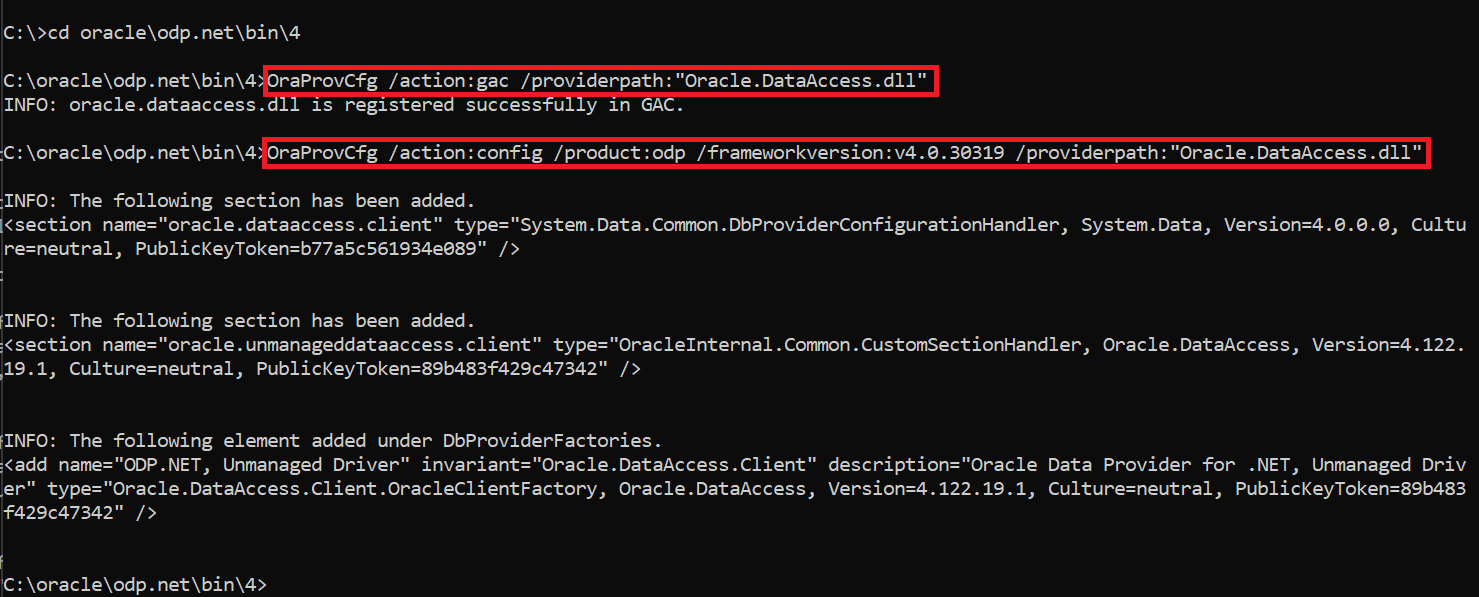
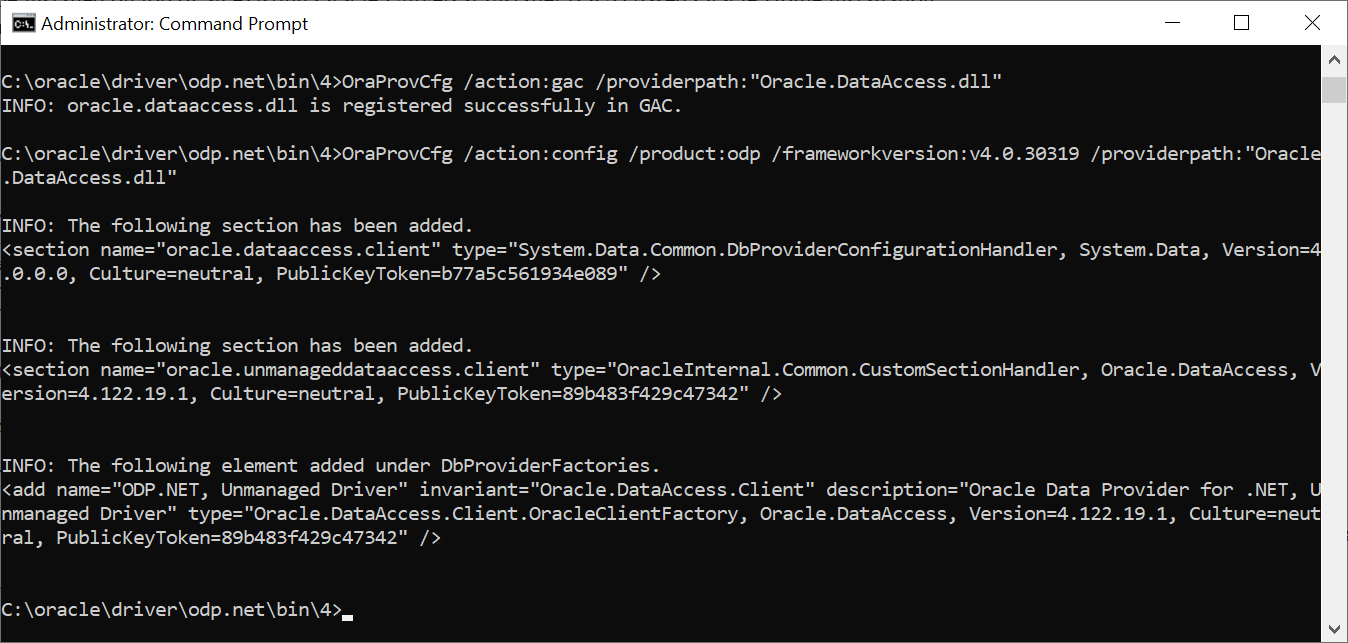
Added Oracle Autonomous Database info

Changed region(s): [[0.0, 0.0, 1.0, 1.0]]

diff --git a/powerquery-docs/Connectors/OracleDatabase.md b/powerquery-docs/Connectors/OracleDatabase.md
@@ -104,7 +104,7 @@ The following table lists all of the advanced options you can set in Power Query
 | --------------- | ----------- |
 | Command timeout in minutes | If your connection lasts longer than 10 minutes (the default timeout), you can enter another value in minutes to keep the connection open longer. This option is only available in Power Query Desktop. |
 | SQL statement | For information, go to [Import data from a database using native database query](../native-database-query.md). |
-| Include relationship columns | If checked, includes columns that might have relationships to other tables. If this box is cleared, you won’t see those columns. |
+| Include relationship columns | If checked, includes columns that might have relationships to other tables. If this box is cleared, these columns won't appear. |
 | Navigate using full hierarchy | If checked, the navigator displays the complete hierarchy of tables in the database you're connecting to. If cleared, the navigator displays only the tables whose columns and rows contain data. |
 | | |
 
@@ -143,30 +143,43 @@ To download your client credentials:
 
 1. Go to the [Oracle Data Access Components Runtime Downloads](https://www.oracle.com/database/technologies/dotnet-odacdeploy-downloads.html) page.
 
-2. Under **ODAC XCopy**, select either **64-bit Unmanaged ODP.NET 19.10** or **32-bit Unmanaged ODP.NET 19.10**, depending on whether you'll be using the 64-bit or 32-bit version of Power BI Desktop. The examples in this article use the 64-bit version.
+2. If you're using a 64-bit version of Power BI Desktop, under **64-bit ODAC OUI**, select **64-bit ODAC 19.3.1**. If you're using a 32-bit version of Power BI Desktop, go to the download page for the 32-bit version from the link on the Oracle page. We recommend that you use the 64-bit version. The examples in this article use the 64-bit version.
 
-3. Review and accept the Oracle license agreement, then select **Download ODP.NETUnmanaged19.10Xcopyx64.zip**.
+3. Review and accept the Oracle license agreement, then select **Download ODAC1931_x64.zip**.
 
 4. You'll be asked to sign in to your Oracle account. This account might be different from your Oracle Cloud account, so be sure to enter the correct username and password.
 
-   The Oracle ODAC Xcopy zip file is then downloaded to your Windows default download location.
+   The Oracle ODAC OUI zip file is then downloaded to your Windows default download location.
 
-5. From the default download location, extract the files from the zip file and place them in a convenient location.
+5. From the default download location, extract the files from the zip file and place them in a convenient folder of your choice.
 
 6. Open a Windows command prompt (cmd.exe) in administrator mode.
 
-7. In the command prompt, navigate to the folder where you extracted the ODAC Xcopy files.
+7. In the command prompt, navigate to the folder where you extracted the ODAC OUI files.
 
-8. Enter the following line in the command prompt (if you are using .NET Framework 4):
+8. Open setup.exe.
 
-   `install.bat odp.net4 c:\oracle odac false`
+9. In **Specify Oracle Home User**, select **Use Windows Built-in Account**. Then select **Next**.
 
-   >[!Note]
-   >Other options exist for .NET Framework 2 or MTS, whether you want to install Oracle Instant Client, and the installation location. For example, if you are connecting to multiple autonomous databases, you might want to set up a more complex folder structure to accommodate each of these databases. Go to the readme.htm file in the folder containing the extracted ODAC Xcopy files for more information about these options.
+   ![Image with Use Windows Built-in Account selected in the Specify Oracle Home User dialog box.](media/oracle-database/driver-install-step-1.png)
+
+10. In **Specify Installation Location**, select the location for the Oracle base folder. Select **Browse** to browse to the folder you want to use, then select **Select**. Then select **Next**.
+
+    ![Image with the browser open and a new location listed for the Oracle base.](media/oracle-database/driver-install-step-2.png)
+
+11. In **Available Product Components**, only select **Oracle Data Provider for .NET**. Then select **Next**.
+
+    ![Image with Oracle Data Provider for .Net selected.](media/oracle-database/driver-install-step-3.png)
+
+12. The installer then performs some prerequisite checks to ensure your system meets the minimum installation and configuration requirements. Once this check is finished, select **Next**.
+
+13. The installer then presents a summary of the actions it's going to take. To continue, select **Install**.
+
+14. Once the installer has finished installing all of your driver components, select **Close**.
 
 ### Configure the unmanaged ODP.NET
 
-1. In the command prompt, go to \<_install-folder_\>\odp.net\bin\4. In this example, the location is `c:\oracle\odp.net\bin\4`.
+1. In the command prompt, go to \<_install-folder_\>\odp.net\bin\4. In this example, the location is `c:\oracle\driver\odp.net\bin\4`.
 
 2. Enter the following commands:
 
@@ -174,31 +187,23 @@ To download your client credentials:
 
    `OraProvCfg /action:config /product:odp /frameworkversion:v4.0.30319 /providerpath:"Oracle.DataAccess.dll"`
 
-   ![ODAC commands](media/oracle-database/adb-odac-config.png)
+   ![Image with Command prompt open and the two ODAC commands successfully completed.](media/oracle-database/adb-odac-config.png)
 
-3. Search for **Environment Variables** in the Windows Start menu **Search** option, and select **Edit the system environment variables**.
+### Set the environment variables
 
-4. From **System Properties**, select **Environment Variables**.
+1. Search for **Environment Variables** in the Windows Start menu **Search** option, and select **Edit the system environment variables**.
 
-5. In **Environment Variables**, under **User variables**, select **New**.
+2. From **System Properties**, select **Environment Variables**.
 
-6. In **New User Variable**, enter `TNS_ADMIN` in **Variable name**, and the location where you'll unzip your ADB wallet in **Variable value**. Then select **OK**.
+3. In **Environment Variables**, under **System variables**, select **New**.
 
-7. Under **System variables**, select **Path**, and then select **Edit**.
+4. In **New System Variable**, enter `TNS_ADMIN` in **Variable name**, and the location where you'll unzip your ADB wallet in **Variable value**. Then select **OK**.
 
-8. Select **New** and add the \bin and \odp.net folders to the path. In this example, add:
+5. Select **OK**.
 
-   `c:\oracle\bin`
+6. In **Environment Variables**, select **OK**.
 
-   `c:\oracle\odp.net`
-
-9. Select the \bin folder, and use **Move Up** to move it to the top of the path list. This ensures that this folder path setting has precedence over other existing Oracle Homes. 
-
-10. Select **OK**.
-
-11. In **Environment Variables**, select **OK**.
-
-12. In **System Properties**, select **OK**.
+7. In **System Properties**, select **OK**.
 
 ### Configure Oracle ADB credentials
 
@@ -206,30 +211,76 @@ To download your client credentials:
 
 2. Unzip the credentials into a folder. In this example, the credentials are extracted to c:\data\wallet\wallet_contosomart.
 
-   ![Wallet unzipped](media/oracle-database/adb-wallet-unzipped.png)
+   ![Image with the wallet files unzipped in the wallet folder.](media/oracle-database/adb-wallet-unzipped.png)
 
    >[!Note]
    >The tnsnames.ora file is used to connect to Oracle autonomous databases.
 
-3. Open the tnsnames.ora file in the wallets folder. The file contains a list of ADB net service names that you can connect to. In this example, the names are contosomart_high, contosomart_low, and contosomart_medium. Your ADB net service names will probably be named differently.
+3. Open sqlnet.ora in an editor, such as Notepad.
 
-   ![Tns names](media/oracle-database/adb-tnsnames.png)
+4. Under **WALLET_LOCATION**, change the path to your wallet folder under the Directory option. In this example:
 
-If you are connecting to multiple ADBs on the same machine with different wallets, add the MY_WALLET_DIRECTORY parameter to the end of the network service name descriptor for each wallet. For example:
+   `WALLET_LOCATION = (SOURCE = (METHOD = file) (METHOD_DATA = (DIRECTORY="c:\data\wallet\Wallet_ContosoMart")))`
 
-_`contosomart_high` = (description= (retry_count=20)(retry_delay=3)(address=(protocol=tcps)(port=1522)(host=adb.us-ashburn-1.oraclecloud.com))(connect_data=(service_name=g817f1b31d0b79f_contosomart_high.adb.oraclecloud.com))(security=(ssl_server_cert_dn="CN=adwc.uscom-east-1.oraclecloud.com, OU=Oracle BMCS US, O=Oracle Corporation, L=Redwood City, ST=California, C=US")(`MY_WALLET_DIRECTORY=C:\DATA\WALLET\Wallet_contosomart`)))_
+5. Save and close the sqlnet.ora file.
 
-_`contosodata_low` = (description= (retry_count=20)(retry_delay=3)(address=(protocol=tcps)(port=1522)(host=adb.us-ashburn-1.oraclecloud.com))(connect_data=(service_name=g817f1b31d0b79f_contosomart_low.adb.oraclecloud.com))(security=(ssl_server_cert_dn="CN=adwc.uscom-east-1.oraclecloud.com, OU=Oracle BMCS US, O=Oracle Corporation, L=Redwood City, ST=California, C=US")(`MY_WALLET_DIRECTORY=C:\DATA\WALLET\Wallet_contosodata`)))_
+Open the tnsnames.ora file in the wallets folder. The file contains a list of ADB net service names that you can connect to. In this example, the names are contosomart_high, contosomart_low, and contosomart_medium. Your ADB net service names will be different.
+
+   ![Image with three example TNS names, contosomart_high, contosomart_low, and contosomart_medium.](media/oracle-database/adb-tnsnames.png)
+
+### Initial test of the connection
+
+1. Open Power BI Desktop.
+
+2. Select **Get Data**.
+
+3. From **Get Data**, select **Database** > **Oracle database**.
+
+4. Enter the name of the Oracle Autonomous Database server you want to connect to. In this example, the server is contosomart_high. Then select **OK**.
+
+   ![Image of the Oracle database dialog box with contosomart_high as the server name and import mode selected.](media/oracle-database/adb-enter-server.png)
+
+5. If this is the first time you're signing in to this server from Power BI Desktop, you'll be asked to enter your credentials. Select **Database**, then enter the user name and password for the Oracle database. The credentials you enter here are the user name and password for the specific Oracle Autonomous Database you want to connect to. In this example, the database's initial administrator user name and password are used. Then select **Connect**.
+
+   ![Image of the credentials dialog box, with Database selected, and the default database user name and password entered.](media/oracle-database/adb-credentials.png)
+
+At this point, the **Navigator** appears and displays the connection data.
+
+![Image with the navigator open and the contosomart_high database shown with all of its ](media/oracle-database/adb-navigator.png)
+
+You might also come across one of several errors because the configuration hasn't been properly set up. These errors are discussed in [Troubleshooting](#troubleshooting).
+
+One error that might occur in this initial test takes place in **Navigator**, where the database appears to be connected, but contains no data. Instead, an Oracle: ORA-28759: failure to open file error appears in place of the data.
+
+![Image of Navigator with the database name at the top, but an error appears instead of the data.](media/oracle-database/failure-to-open-file.png)
+
+If this error occurs, be sure that the wallet folder path you supplied in sqlnet.ora is the full and correct path to the wallet folder.
 
 ### Configure the gateway
 
 1. In Power BI service, select the gear icon in the upper right-hand side, then select **Manage gateways**.
 
-   [![Manage gateways](media/oracle-database/adb-manage-gateways.png)](media/oracle-database/adb-manage-gateways.png#lightbox)
+   [![Image of the Power BI service open, the gear icon selected, and the Manage gateways menu with Manage gateways emphasized.](media/oracle-database/adb-manage-gateways.png)](media/oracle-database/adb-manage-gateways.png#lightbox)
 
 2. In **Add Data Source**, select **Add data sources to use the gateway**.
 
-   [![Add data source to use the gateway](media/oracle-database/adb-add-data-source.png)](media/oracle-database/adb-add-data-source.png#lightbox)
+   [![Image of the Add data source window in Power BI service, with Add data source to use the gateway emphasized.](media/oracle-database/adb-add-data-source.png)](media/oracle-database/adb-add-data-source.png#lightbox)
+
+3. In **Data Source Name**, enter the name you want to use as the data source setting.
+
+4. In **Data Source Type**, select **Oracle**.
+
+5. In **Server**, enter the name of the Oracle Autonomous Database server.
+
+6. In **Authentication Method**, select **Basic**.
+
+7. Enter the user name and password for the Oracle Autonomous Database. In this example, the default database administrator user name and password are used.
+
+8. Select **Add**.
+
+   ![Image of the Data Source Settings window, with all of the data source settings filled in.](media/oracle-database/adb-set-data-sources.png)
+
+If everything has been installed and configured correctly, a **Connection Successful** message appears. You can now connect to the Oracle Autonomous Database using the steps described in [Connect to an Oracle database from Power Query Online](#connect-to-an-oracle-database-from-power-query-online).
 
 ## Troubleshooting
 
@@ -241,7 +292,7 @@ You might come across any of several errors from Oracle when the naming syntax i
 * ORA-12170: TNS: connect timeout occurred.
 * ORA-12504: TNS: listener was not given the SERVICE_NAME in CONNECT_DATA.
 
-These errors might occur if the Oracle client either isn't installed or isn't configured properly. If it's installed, verify the tnsnames.ora file is properly configured and you're using the proper net_service_name. You also need to make sure the net_service_name is the same between the machine that uses Power BI Desktop and the machine that runs the gateway. For more information, see [Prerequisites](#prerequisites).
+These errors might occur if the Oracle client either isn't installed or isn't configured properly. If it's installed, verify the tnsnames.ora file is properly configured and you're using the proper net_service_name. You also need to make sure the net_service_name is the same between the machine that uses Power BI Desktop and the machine that runs the gateway. More information: [Prerequisites](#prerequisites)
 
 You might also come across a compatibility issue between the Oracle server version and the Oracle Data Access Client version. Typically, you want these versions to match, as some combinations are incompatible. For instance, ODAC 12.x doesn't support Oracle Server version 9.
 
@@ -251,7 +302,7 @@ If you downloaded Power BI Desktop from the Microsoft Store, you might be unable
 
 * If you want to use the version from Microsoft Store: on your local computer, copy oraons.dll from *12.X.X\client_X* to *12.X.X\client_X\bin*, where *X* represents version and directory numbers.
 
-If you see the error message, *Object reference not set*, in the Power BI Gateway when you connect to an Oracle database, follow the instructions in [Manage your data source - Oracle](/power-bi/connect-data/service-gateway-onprem-manage-oracle).
+If the *Object reference not set* error message occurs in Power BI when you connect to an Oracle database using the on-premises data gateway, follow the instructions in [Manage your data source - Oracle](/power-bi/connect-data/service-gateway-onprem-manage-oracle).
 
 If you're using Power BI Report Server, consult the guidance in the [Oracle Connection Type](/sql/reporting-services/report-data/oracle-connection-type-ssrs) article.
 
